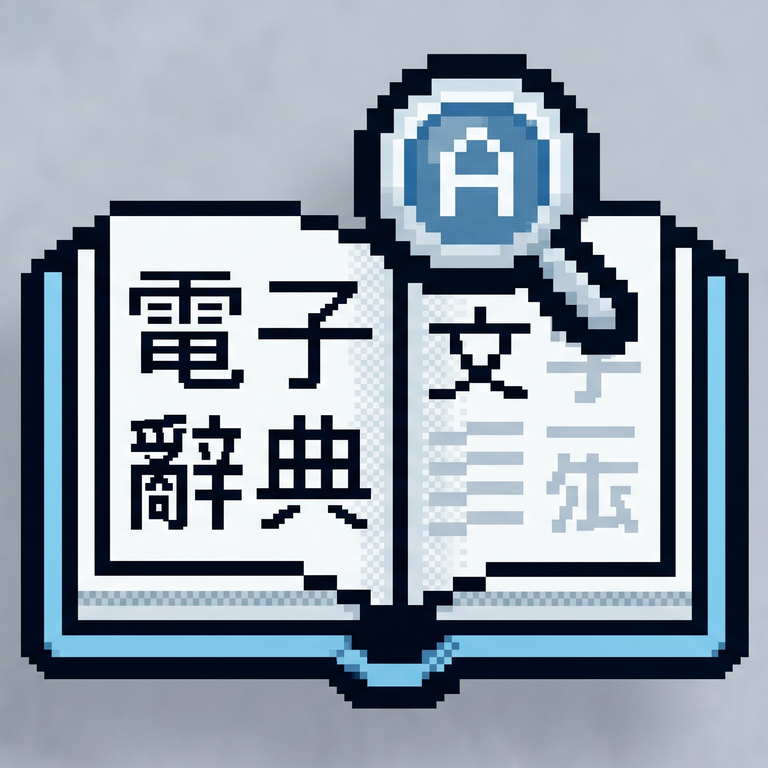
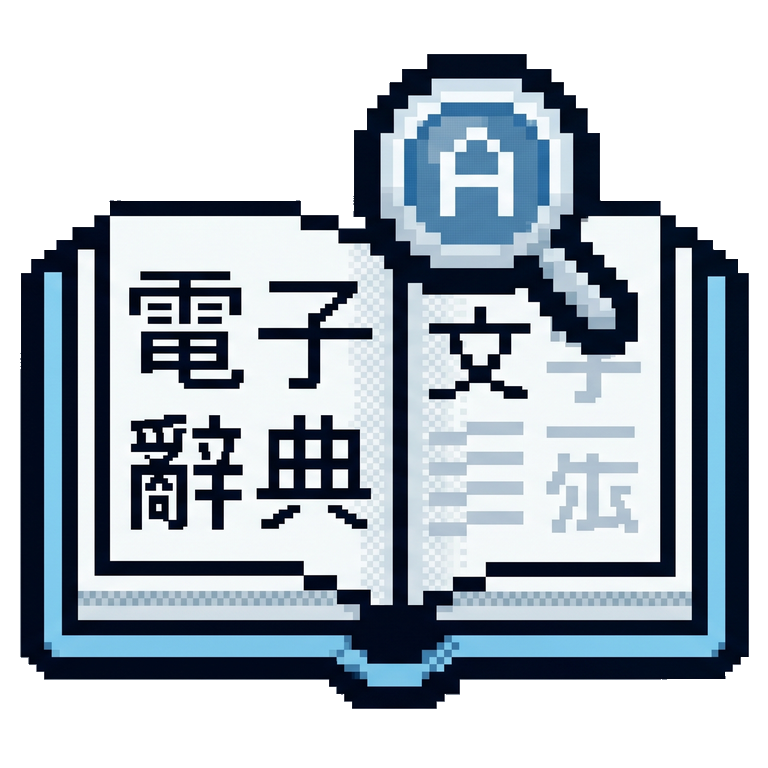
發音診斷：Fn+2 測試音，並修掉封面圖去背失效
實機按 Fn+1 只有卡答聲。卡答聲代表 DMA 沒有正常播出波形，但那有兩種
可能：合成產出 0 個取樣點，或音訊路徑（PWM/DMA/pacing）本身壞掉。
兩者在耳朵裡一模一樣，所以先加一個能把它們分開的東西：

- Fn+2 = 1kHz 方波測試音 0.3 秒（切換英漢還沒實作，暫借這顆鍵）
  嗶得出來 = 音訊路徑好的，問題在合成；還是卡答 = 音訊路徑本身
- 合成產出 0 個取樣點時改發 200Hz 短嗶，與卡答聲區分
- 序列埠印出取樣點數與 id 數

順帶量了單一音素的最長長度：3,888 取樣點（0.243 秒），所以 SPEAK_MAX_SEG
4000 是夠的 —— 這條路徑不是嫌疑犯。

封面圖去背改白底，並修掉兩個讓它安靜失效的問題：
1. make_thumb.py 的 --drop-bg 用同一個 --drop-tol 做兩件事（flood fill 門檻、
   以及「這一角是不是已經是底色」的判斷）。底色給白時，灰底距離白只有 74 <
   門檻 110，四個角全被當成「本來就是底色」而整段跳過。改成自己用 PIL
   flood fill，不依賴那個旗標。
2. mkicon 的 make_square() 在來源已經是正方形時提早 return，跳過了去背。

diff --git a/tools/mkicon.py b/tools/mkicon.py
@@ -24,13 +24,15 @@ import struct
 import subprocess
 import sys
 
-from PIL import Image
+from PIL import Image, ImageDraw
 
 HERE = os.path.dirname(os.path.abspath(__file__))
 ROOT = os.path.join(HERE, "..")
 ASSETS = os.path.join(ROOT, "assets")
 SQUARE = os.path.join(ASSETS, "retrodict_icon.png")
 SQUARE_MAX = 768          # 進版控的來源圖上限；96px 的縮圖用不到更大
+BG = (255, 255, 255)      # 去背後的底色：圖示是白紙的書，白底才連成一片
+DROP_TOL = 110            # flood fill 門檻，要吃得掉書本下緣的投影
 RAW = os.path.join(ASSETS, "RetroDict.ino.RAW")
 CHECK = os.path.join(ASSETS, "retrodict_icon_96.png")
 
@@ -38,12 +40,36 @@ W = H = 96
 EXPECT = W * H * 2
 
 
+def drop_background(im):
+    """從四角 flood fill 換成白底。
+
+    **不用 make_thumb.py 的 `--drop-bg`**：那支腳本用同一個 `--drop-tol`
+    做兩件事 —— flood fill 的門檻，以及「這一角是不是已經等於底色」的判斷。
+    底色給白時，來源圖的灰底 (181,186,198) 距離白只有 74，小於門檻 110，
+    四個角就全被判定成「本來就是底色」而整段跳過，結果是安靜地沒去背。
+    （底色給黑不會踩到，因為灰離黑很遠 —— 所以這個 bug 只在淺色底出現。）
+
+    門檻要 110 才吃得掉書本下緣的**投影**：投影跟灰底不同色、也不與四角
+    連通，60 的話會在圖示下方留一圈鋸齒狀髒邊。書本的深色描邊離得夠遠，
+    不會被吃掉。
+
+    在縮放前做：全解析度下背景與主體的邊界最乾淨，之後縮小時 LANCZOS
+    會自然把邊緣混進底色，不會留下一圈灰邊。
+    """
+    for corner in [(0, 0), (im.width - 1, 0),
+                   (0, im.height - 1), (im.width - 1, im.height - 1)]:
+        if im.getpixel(corner)[:3] == BG:
+            continue
+        ImageDraw.floodfill(im, corner, BG, thresh=DROP_TOL)
+    return im
+
+
 def make_square(src_path):
     """置中裁成正方形。原圖是寬幅的，直接丟給 --fit 會把書的上下邊緣切掉。"""
     im = Image.open(src_path).convert("RGB")
     w, h = im.size
     if w == h:
-        return im
+        return drop_background(im)      # 已經是正方形也還是要去背
     side = min(w, h)
     half = int(side * 0.98) // 2          # 留一點邊，圖示不要頂到框
     cx, cy = w // 2, h // 2
@@ -51,6 +77,7 @@ def make_square(src_path):
            min(w, cx + half), min(h, cy + half))
     print("裁切 %s -> %s" % (im.size, (box[2] - box[0], box[3] - box[1])))
     im = im.crop(box)
+    im = drop_background(im)
     if im.size[0] > SQUARE_MAX:
         im = im.resize((SQUARE_MAX, SQUARE_MAX), Image.LANCZOS)
     return im
@@ -119,12 +146,13 @@ def main(argv):
     sq.save(SQUARE)
     print("來源正方圖：%s（%dx%d）" % (os.path.normpath(SQUARE), *sq.size))
 
-    # 去背：來源圖是有灰底的 JPEG，載入器選單是深色的，不去背會看到一塊
-    # 灰方塊。tol 要夠大才吃得掉書本下緣的**投影** —— 投影跟灰底不同色、
+    # 去背：來源圖是有灰底的 JPEG，不去背會看到一塊灰方塊。底色用白 ——
+    # 圖示本身是白紙的書，配白底才連成一片，配黑底反而會框出一個方塊。
+    # tol 要夠大才吃得掉書本下緣的**投影** —— 投影跟灰底不同色、
     # 也不與四角連通，tol 60 會在黑底上留下一圈鋸齒狀髒邊（實測 110 乾淨，
     # 而且書本的深色描邊還在）。
     r = subprocess.run([sys.executable, thumb, SQUARE, "--fit",
-                        "--drop-bg", "--drop-tol", "110", "--bg", "000000",
+                        "--drop-bg", "--drop-tol", "110", "--bg", "FFFFFF",
                         "-o", RAW], capture_output=True)
     out = (r.stdout + r.stderr).decode("utf-8", "replace").strip()
     if out:

diff --git a/firmware/keys.h b/firmware/keys.h
@@ -27,6 +27,8 @@
 #define KEY_PGUP   0x85
 #define KEY_PGDN   0x86
 #define KEY_F1     0x91          /* F1..F10 連號 */
+#define KEY_F2     0x92
+#define KEY_F3     0x93
 #define KEY_F10    0x9A
 
 /* 修飾鍵位元 */
